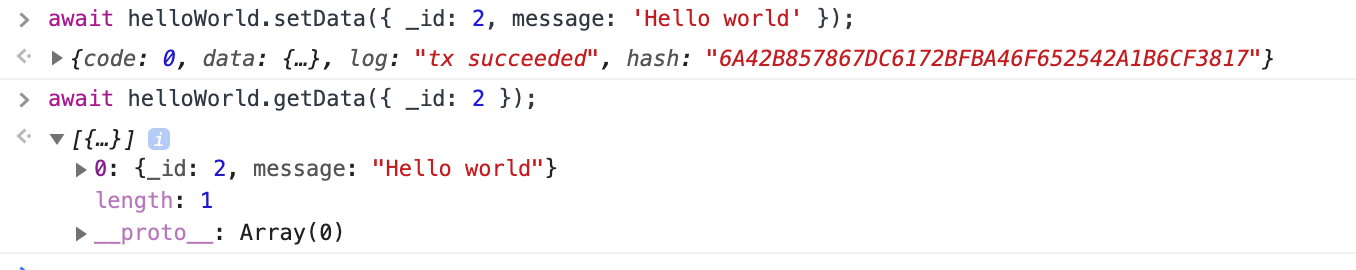
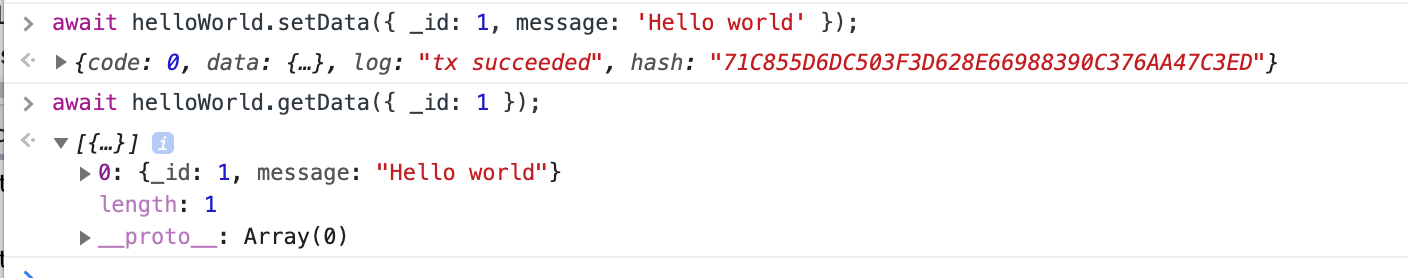
Update gitignore

diff --git a/page/dist/index.html b/page/dist/index.html
@@ -5,7 +5,7 @@
     <title>> Jaav-tm</title>
     <script src="main.js"></script>
 </head>
-<body>
+<body style="margin:50px;font-family: 'Arial Hebrew'">
 <script>
     const webclient = new WebClient('wss://' + window.location.host);
     webclient.connect().then(async () => {
@@ -23,6 +23,7 @@
         }
 
         const helloWorld = await webclient.getContract(address, accounts[0]);
+        this.window.helloWorld = helloWorld;
 
         helloWorld.onHello = (result, options) => {
             console.log(result);
@@ -31,5 +32,91 @@
         helloWorld.hello(window.location.hostname);
     });
 </script>
+<h2>Console webclient</h2>
+
+<p>Please open the Chrome (browser) console on this page! </p>
+
+<h4>Wallet functions</h4>
+
+<p> To get your accounts (at startup two accounts are provided with each 1000 coins on balance)</p>
+
+<pre><code>    &gt; let accounts = await webclient.getAccounts()</code></pre>
+
+<p> To get your balance</p>
+
+<pre><code>    &gt; await webclient.getBalance(accounts[0])</code></pre>
+
+<p> To transfer coins use <code>transfer (account, to, amount, message, password)</code></p>
+
+<pre><code>    &gt; await webclient.transfer(accounts[0], accounts[1], 1, &#39;Message for cashbook&#39;, &#39;1234&#39;);</code></pre>
+
+<p> To create a new account use <code>createAccount (password)</code></p>
+
+<pre><code>    &gt; await webclient.createAccount(&#39;1234&#39;)</code></pre>
+
+<p> To change the password of an account use <code>changePassword (account, oldPassword, newPassword)</code></p>
+
+<pre><code>    &gt; await webclient.changePassword(accounts[0], &#39;1234&#39;, &#39;newpassword&#39;)</code></pre>
+
+<h4>Contract functions</h4>
+
+<p> To get your current contracts (kept per node in a wallet file)</p>
+
+<pre><code>    &gt; await webclient.getContracts()</code></pre>
+
+<p> To compile all the modified contracts stored in the contracts folder</p>
+
+<pre><code>    &gt; await webclient.compile()</code></pre>
+
+<p> To upload a contract in the console:</p>
+
+<ul><li>Go to the snippets (tab: sources/snippets) section of the console and paste the content of a contract into the snippet area.</li><li><p>Press run (right click snippet name)</p><p>Now you will have your class available in the current scope</p></li></ul>
+
+<ul><li><p>Go to the console tab</p><pre><code>&gt; await webclient.upload(HelloWorld)</code></pre></li><li><p>To deploy a contract use <code>deploy (account, password, contract)</code></p><pre><code>&gt; let deploy = await webclient.deploy(accounts[0], &#39;1234&#39;, &#39;HelloWorld&#39;)</code></pre></li><li><p>To get an instance of the contract use <code>getContract (address, account)</code></p><pre><code>&gt; let helloWorld = await webclient.getContract(deploy.address, accounts[0])</code></pre></li><li><p>To call a contract function</p><pre><code>&gt; let result = await helloWorld.hello(&#39;world&#39;)</code></pre></li></ul>
+
+<p> For each function in the contract there is a <code>onFunctionName</code> listener available which is triggered when the function is called.</p>
+
+<pre><code>    &gt; helloWorld.onHello = (result, options) =&gt; { console.log(result) }</code></pre>
+
+<p> From wherever a function is called, each clientnode will receive a notification. In the <code>options.caller</code> the calling account is set.</p>
+
+<h3>Database access in contracts</h3>
+
+<p>On each instance of a contract a <code>database</code> property is set. This property contains functions to handle the associated contract collection.
+    For each deployed contract a database mondgodb collection is created. Contracts have read and write access to this collection. Read operation can
+    be performed on the entire database. In that case pass the address (which is the collection name) to the query function.</p>
+
+<p>As an example two functions are added to the HelloWorld contract.
+    <code></code>`
+    setData(data) {
+    return this.database.insert(data);
+    }</p>
+
+<pre><code>    getData(query) {
+        return this.database.query(query);
+    }</code></pre>
+
+<p>Functions which do database calls should return a Promise always. </p>
+
+<p>The available functions are. </p>
+
+<p>Read operation over the entire state or database</p>
+
+<ul><li>getAccount(address)</li><li>getContract(address)</li><li>query(query, collection, first = false) (collection defaults to contract address)</li></ul>
+
+<p>There are two static collections (<code>accounts</code> and <code>contracts</code>) on which can be searched on address as id. Other collections are contract addresses.</p>
+
+<ul><li>insert(record)</li><li>updateById(id, update)</li><li>update(filter, update) </li></ul>
+
+<p>These functions can only be performed on the contract collection.   </p>
+
+<p> To store data in the contract database</p>
+
+<pre><code>    &gt; await helloWorld.setData({ _id: 1, message: 'Hello world' });</code></pre>
+
+<p> To get data from the contract database</p>
+
+<pre><code>    &gt; await helloWorld.getData({ _id: 1 });</code></pre>
+
 </body>
 </html>

diff --git a/page/index.html b/page/index.html
@@ -38,7 +38,5 @@
 
 </script>
 
-
-
 </body>
 </html>
